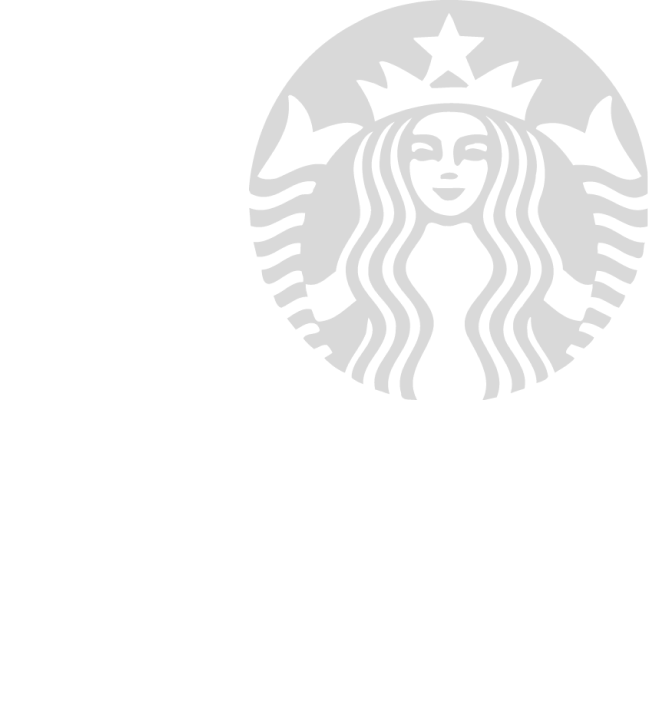
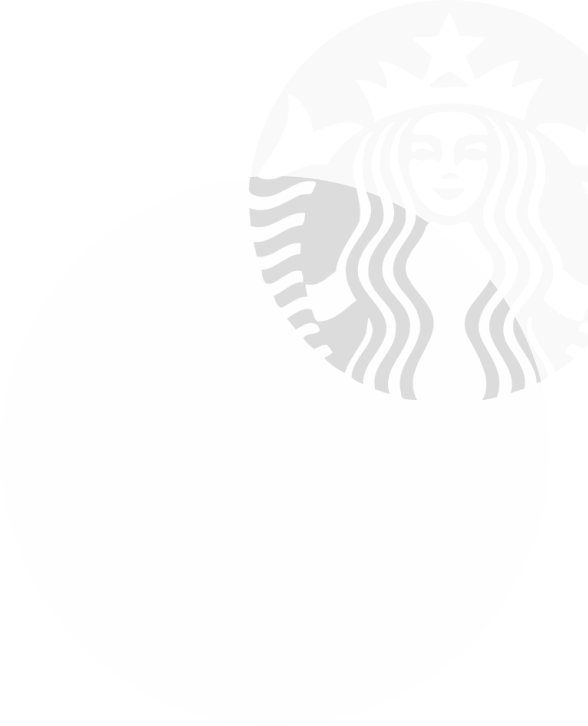
Add files via upload

Changed region(s): [[0.3673, 0.0, 1.0, 0.5758]]

diff --git a/index.html b/index.html
@@ -34,7 +34,7 @@
                 <img class="produto-img" src="img/starbucks-morango.png" >
             </div>
 	        <div class="fundo">
-                <img class="fundo-img" src="img/fundo.png">
+                <img class="fundo-img" src="img/telafundo.png">
             </div>
         </section>
     </main>

diff --git a/styles/produto.css b/styles/produto.css
@@ -15,7 +15,6 @@
 
 .fundo-img{
     margin-top: 14rem;
-    margin-left: 5rem;
     height: 27rem;
 
 }
